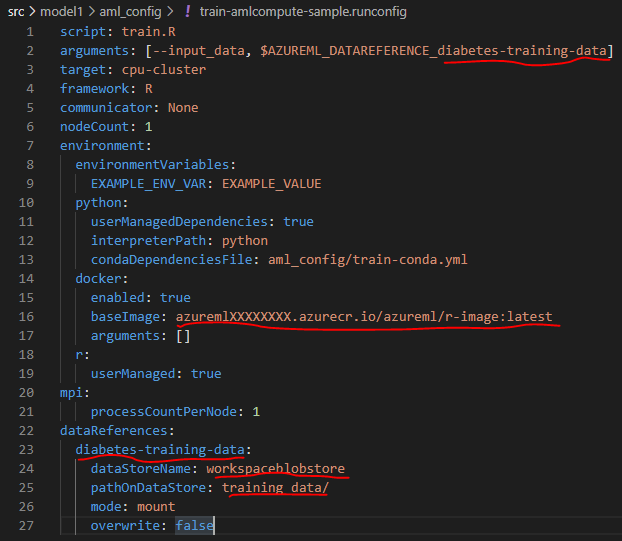
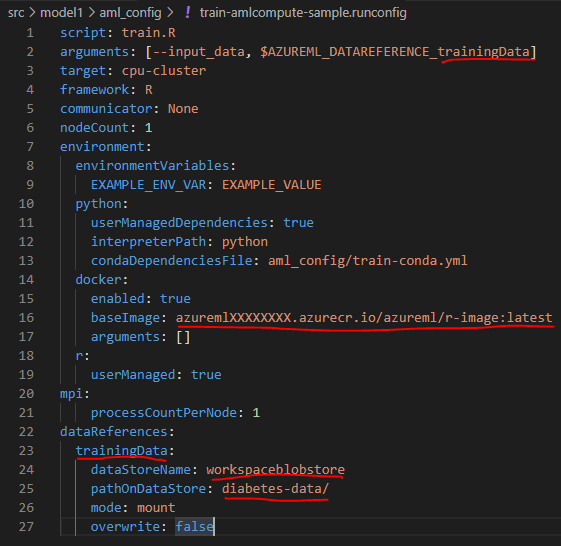
documentation updates

diff --git a/instructions/02-training.md b/instructions/02-training.md
@@ -113,6 +113,7 @@ This is the target architecture we'll use for this section:
     * Update the `script` parameter to point to your entry script
     * Update the following parameters of the `dataReferences` section:
         * Set a data reference name `<DATA REFERENCE NAME>` on line 23 that will also be used on line 2
+        * **Note: do not use underscores or dashes in your** `<DATA REFERENCE NAME>`
         * Set the `dataStoreName` parameter to the AML datastore where your training data exists
         * Set the `pathOnDataStore` parameter to the path in the datastore where your training data exists
     * Update the `arguments` parameter and set `<DATA REFERENCE NAME>` to the same value provided for `<DATA REFERENCE NAME>` on line 23
@@ -138,7 +139,7 @@ This is the target architecture we'll use for this section:
 1. Register model with metadata from your previous training run
     * Register model using the metadata file `run.json`, which is referencing the last training run:
     ```
-    az ml model register -n demo-model --asset-path outputs/model.pkl -f run.json \
+    az ml model register -n demo-model --asset-path outputs/model.rds -f run.json \
       --tag key1=value1 --tag key2=value2 --property prop1=value1 --property prop2=value2
     ```
     * **Details:** Here `-n` stands for `--name`, under which the model will be registered. `--asset-path` points to the model's file location within the run itself (see `Outputs + logs` tab in UI). Lastly, `-f` stands for `--run-metadata-file` which is used to load the file created prior for referencing the run from which we want to register the model from.
